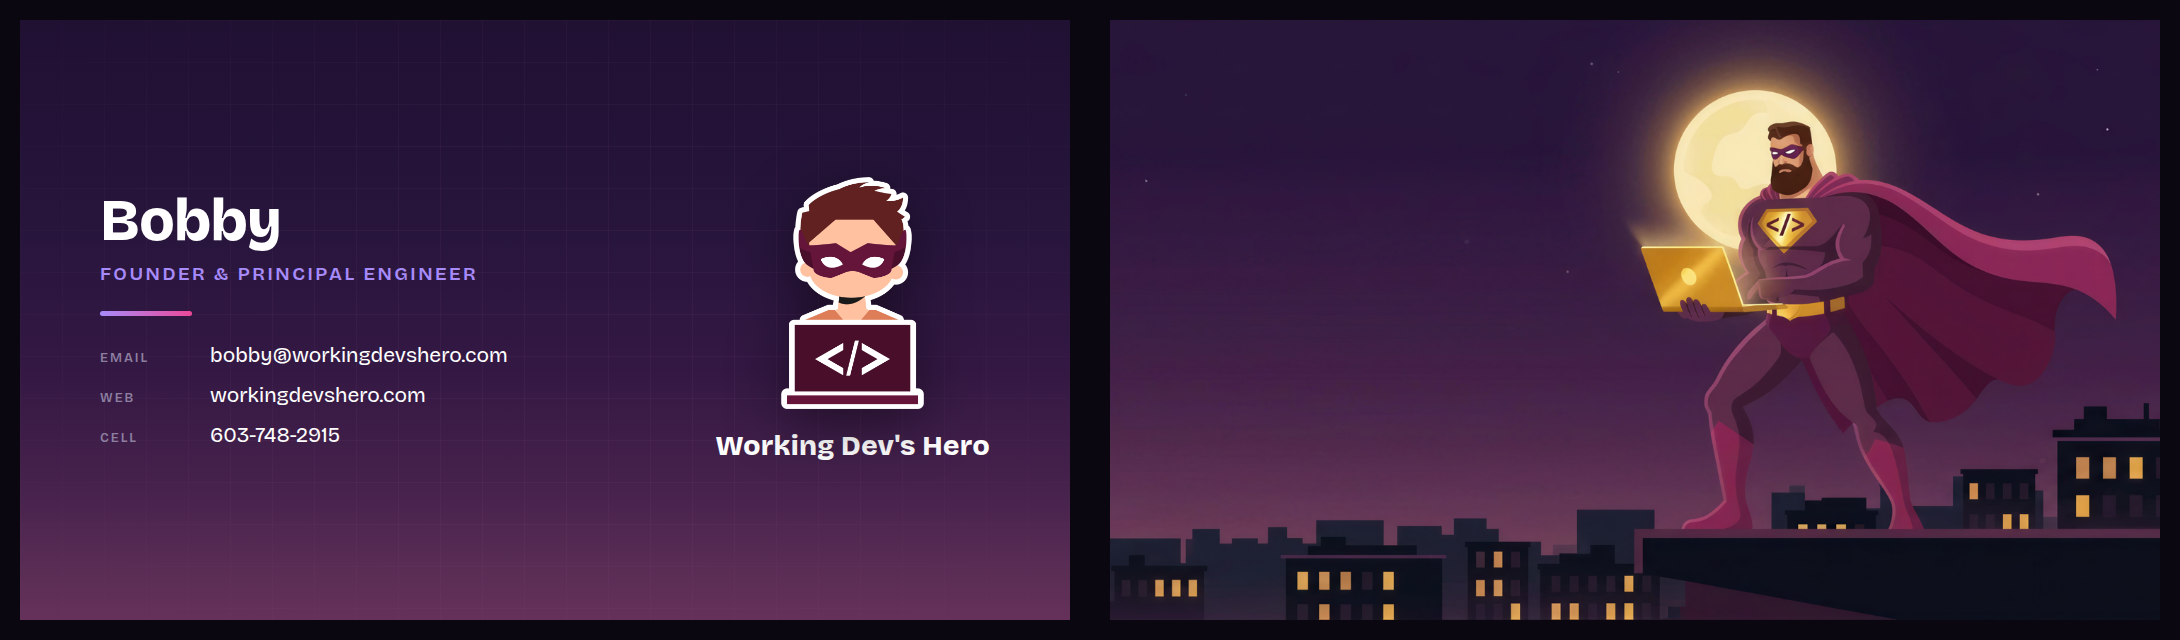
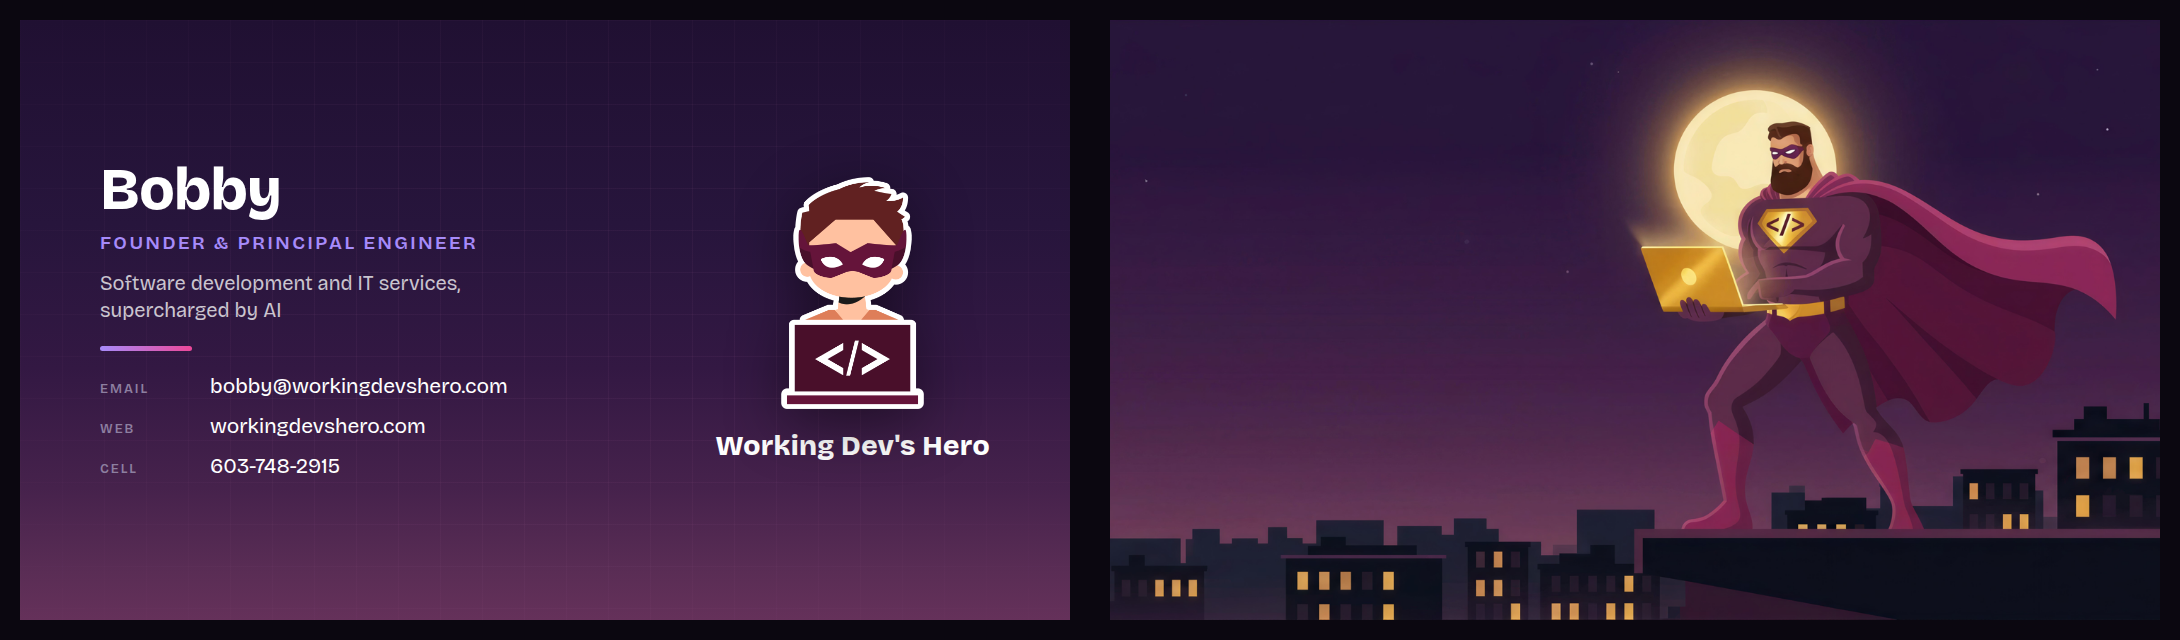
feat(brand): add a what-we-do line to the card front
'Software development and IT services, supercharged by AI' under the role,
so the card covers systems/IT work, not just product builds.

diff --git a/scripts/business-card.html b/scripts/business-card.html
@@ -109,7 +109,11 @@
     font-size: 19px; font-weight: 600; letter-spacing: 2.5px; text-transform: uppercase;
     color: var(--violet); margin-top: 12px;
   }
-  .rule { width: 92px; height: 5px; border-radius: 3px; background: var(--grad); margin: 26px 0; }
+  .what {
+    font-size: 20px; font-weight: 400; line-height: 1.35;
+    color: rgba(255, 255, 255, 0.76); margin-top: 16px; max-width: 470px;
+  }
+  .rule { width: 92px; height: 5px; border-radius: 3px; background: var(--grad); margin: 22px 0; }
   .contact { list-style: none; display: grid; gap: 14px; }
   .contact li { display: flex; align-items: baseline; gap: 18px; }
   .contact .k {
@@ -155,6 +159,7 @@
       <div class="front-left">
         <div class="name">Bobby</div>
         <div class="role">Founder &amp; Principal Engineer</div>
+        <div class="what">Software development and IT services, supercharged by AI</div>
         <div class="rule"></div>
         <ul class="contact">
           <li><span class="k">Email</span><span class="v">bobby@workingdevshero.com</span></li>
